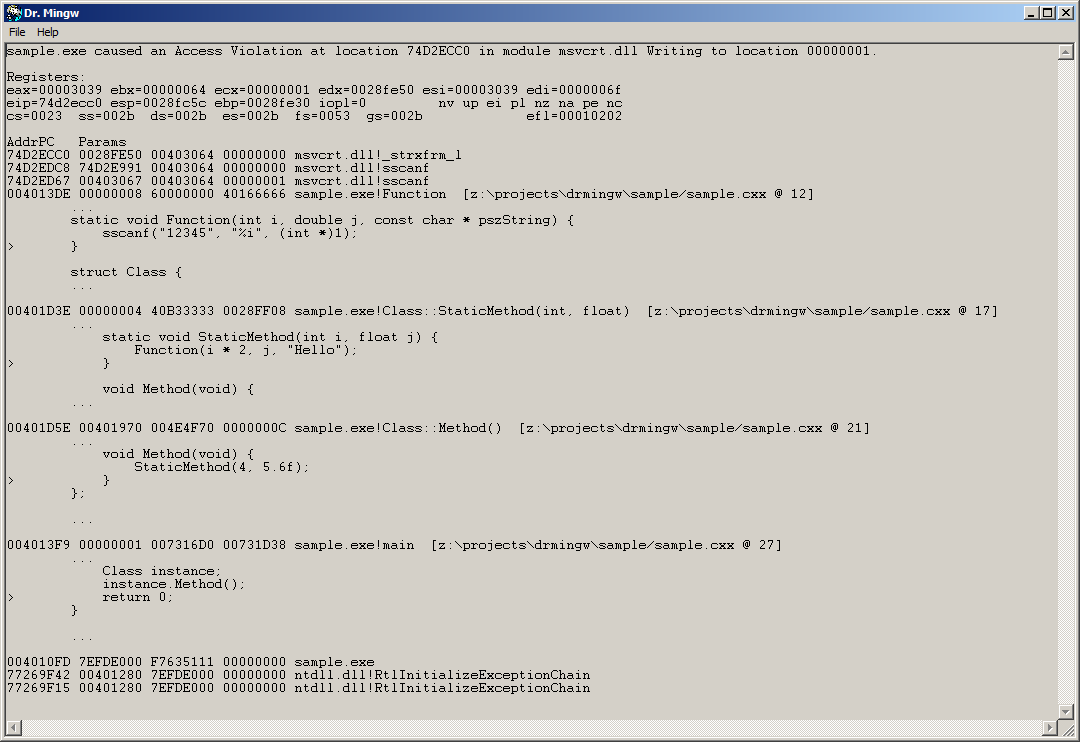
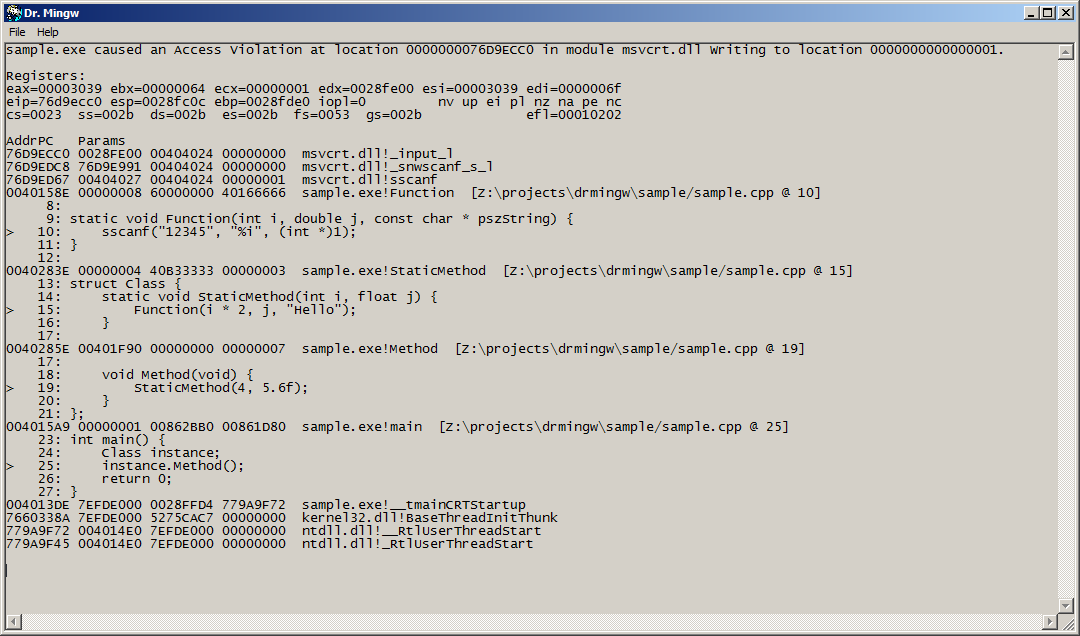
common: Use line numbers for source code.

Changed region(s): [[0.0, 0.0, 1.0, 1.0], [0.3972, 0.717, 0.7333, 0.7469]]

diff --git a/src/common/log.c b/src/common/log.c
@@ -298,8 +298,9 @@ dumpStack(HANDLE hProcess, HANDLE hThread,
 
         lprintf(_T("\r\n"));
 
-        if (bLine && dumpSourceCode(szFileName, dwLineNumber))
-            lprintf(_T("\r\n"));
+        if (bLine) {
+            dumpSourceCode(szFileName, dwLineNumber);
+        }
 
         if (StackFrame.AddrStack.Offset < PrevFrameStackOffset) {
             break;
@@ -508,8 +509,6 @@ dumpSourceCode(LPCTSTR lpFileName, DWORD dwLineNumber)
     if((fp = fopen(szFileName, "r")) == NULL)
         return FALSE;
 
-    lprintf("\t...\r\n");
-
     i = 0;
     while(!feof(fp) && ++i <= (int) dwLineNumber + dwContext)
     {
@@ -517,7 +516,7 @@ dumpSourceCode(LPCTSTR lpFileName, DWORD dwLineNumber)
 
         if(i >= (int) dwLineNumber - dwContext)
         {
-            lprintf(i == dwLineNumber ? ">\t" : "\t");
+            lprintf(i == dwLineNumber ? ">%5i: " : "%6i: ", i);
             while(!feof(fp) && (c = fgetc(fp)) != '\n')
                 if(isprint(c))
                     lprintf("%c", c);
@@ -527,8 +526,6 @@ dumpSourceCode(LPCTSTR lpFileName, DWORD dwLineNumber)
             while(!feof(fp) && (c = fgetc(fp)) != '\n')
                 ;
     }
-
-    lprintf("\t...\r\n");
 
     fclose(fp);
     return TRUE;
